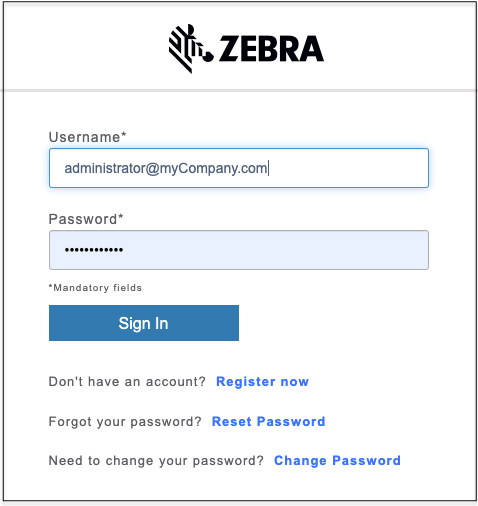
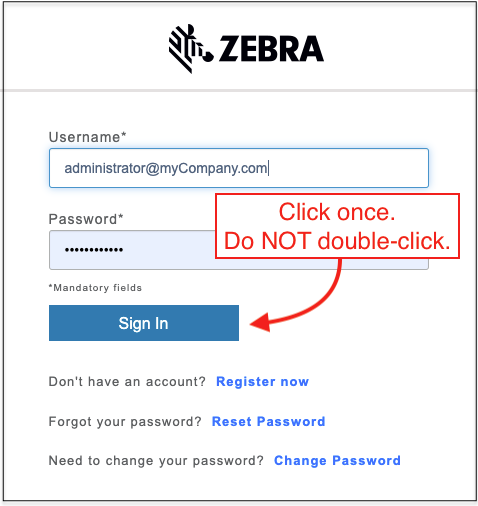
[TUT-98898] ZDNA 3.16.1 updates, per RN, PdM

Changed region(s): [[0.4393, 0.3557, 0.9665, 0.5929], [0.5272, 0.5929, 0.6736, 0.6522]]

diff --git a/zebradna/3-16/setup/index.html b/zebradna/3-16/setup/index.html
@@ -460,7 +460,8 @@ If wildcards are not supported or desired, add the following domain names to the
 <hr>
 
 <p><strong>4</strong>. After receiving a confirmation email, <strong>return to the login screen and log in</strong>.<br>
-<strong>Continue to follow prompts and click "OK"</strong> where necessary. 
+<strong>Continue to follow prompts and click "OK"</strong> where necessary.<br>
+<i class="fa fa-exclamation-triangle" style="color:#FFA500;"></i> Be sure to click "Sign In" just once to avoid errors.
 <img alt="image" style="height:350px" src="z.com_login.png">
 <em>Click image to enlarge; ESC to exit.</em></p>
 
